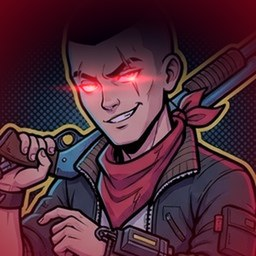
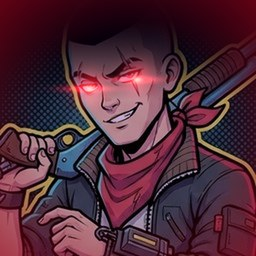
v0.20.1: BOSS red eyes re-aligned to the pupils, eye check tool
Claude-Session: https://claude.ai/code/session_01LmbtZinGW7YZgeBA32fd2Q

Changed region(s): [[0.4062, 0.25, 0.625, 0.3438], [0.3438, 0.3125, 0.4062, 0.3438], [0.2812, 0.3438, 0.3125, 0.375]]

diff --git a/index.html b/index.html
@@ -3,7 +3,7 @@
 <head>
 <meta charset="utf-8">
 <meta name="viewport" content="width=device-width,initial-scale=1,maximum-scale=1,user-scalable=no">
-<title>SPIN! SPIN! v0.20.0</title>
+<title>SPIN! SPIN! v0.20.1</title>
 <link rel="preconnect" href="https://fonts.googleapis.com"><link rel="preconnect" href="https://fonts.gstatic.com" crossorigin>
 <link href="https://fonts.googleapis.com/css2?family=Rajdhani:wght@500;700&display=swap" rel="stylesheet">
 <style>
@@ -676,10 +676,11 @@ h1{font-style:italic;text-shadow:-2px -2px 0 #05060a,2px -2px 0 #05060a,-2px 2px
  v0.18.1 track walls show their inner faces and grow/lean with the camera tilt; the road's default view is more tilted
  v0.19.0 real perspective (near big, far small) across the whole game: the world pass is drawn through a projecting canvas stand-in (PG), strength follows the tilt, on/off switch in settings
  v0.20.0 chapter 2 (10 levels): new props portal / ice / breakable wall (crack), BOSSes 失控彈窗・彈彈 (popups), 暗黑雙子・零與壹 (decoys + hack), 逆時怪盜・克羅諾 (time stop, 2 lives)
+ v0.20.1 BOSS red eyes re-aligned to the pupils (all six portraits re-made, live glow coordinates updated); tools/eye_check.py for checking
 */
 (() => {
 'use strict';
-const GAME_VERSION = 'v0.20.0';
+const GAME_VERSION = 'v0.20.1';
 document.getElementById('verFoot').textContent = `SPIN! SPIN! ${GAME_VERSION}`; document.title = `SPIN! SPIN! ${GAME_VERSION}`; // tab title always follows the version
 // hidden GM panel: tap the version text 7 times within 3 seconds
 (() => {
@@ -878,12 +879,12 @@ for (const id of ['rat', 'rex', 'octo', 'rider', 'tesla', 'cactus', 'erin', 'jac
 // They are added non-enumerable so the codex, gacha pools and random line-ups never see them. eyes = pupil centres on the 256px portrait (for the live glow).
 // sig = signature move in the BOSS arena: quake3 連環重砸, bounty 全場通緝, wall 盾牆＋連續衝鋒, popups 彈窗洗版, twin 分身＋駭入, timestop 時間停止
 function defBoss(id, base, o) { Object.defineProperty(CLASSES, id, { value: Object.assign({}, CLASSES[base], o, { bossOf: base }), enumerable: false }); PORTRAIT_SRC[id] = `art/portraits/${id}.jpg`; if (FACE[base]) FACE[id] = FACE[base]; }
-defBoss('boss_rex', 'rex', { name: '暴走鐵拳・雷克斯', sig: 'quake3', eyes: [[117.5, 111], [167, 113]], lore: '被不明訊號控制的雷克斯。液壓義手失去限制，連砸三下地板。' });
-defBoss('boss_jack', 'jack', { name: '黑化獵人・傑克', sig: 'bounty', eyes: [[91, 88], [132, 78.7]], lore: '被控制的傑克。把整個場子的人都當成懸賞目標。' });
+defBoss('boss_rex', 'rex', { name: '暴走鐵拳・雷克斯', sig: 'quake3', eyes: [[117.5, 110.5], [165.4, 111]], lore: '被不明訊號控制的雷克斯。液壓義手失去限制，連砸三下地板。' });
+defBoss('boss_jack', 'jack', { name: '黑化獵人・傑克', sig: 'bounty', eyes: [[89.6, 88.6], [137, 79.5]], lore: '被控制的傑克。把整個場子的人都當成懸賞目標。' });
 defBoss('boss_spam', 'spam', { name: '失控彈窗・彈彈', sig: 'popups', eyes: [[24, 184], [114, 184]], lore: '被控制的彈彈。彈窗不再可愛，會把人整個圍起來。' });
-defBoss('boss_twins', 'twins', { name: '暗黑雙子・零與壹', sig: 'twin', eyes: [[28, 113], [68, 108], [205, 120], [243, 118]], lore: '被控制的雙胞胎駭客。場上的兩個，只有一個是真的。' });
-defBoss('boss_chrono', 'chrono', { name: '逆時怪盜・克羅諾', sig: 'timestop', eyes: [[90, 140], [129, 141]], lore: '被控制的克羅諾。偷走的不只是時間，還有你的回合。' });
-defBoss('boss_erin', 'erin', { name: '壞掉的盾・艾琳', sig: 'wall', eyes: [[108.8, 96.5], [151, 97.5]], lore: '被控制的艾琳。盾還舉著，只是不再分敵我。' });
+defBoss('boss_twins', 'twins', { name: '暗黑雙子・零與壹', sig: 'twin', eyes: [[25, 117], [65, 111.6], [210, 125], [251, 122]], lore: '被控制的雙胞胎駭客。場上的兩個，只有一個是真的。' });
+defBoss('boss_chrono', 'chrono', { name: '逆時怪盜・克羅諾', sig: 'timestop', eyes: [[105.6, 136], [146, 142]], lore: '被控制的克羅諾。偷走的不只是時間，還有你的回合。' });
+defBoss('boss_erin', 'erin', { name: '壞掉的盾・艾琳', sig: 'wall', eyes: [[106.3, 97.4], [152, 97.9]], lore: '被控制的艾琳。盾還舉著，只是不再分敵我。' });
 // live red glow on a BOSS portrait: mx/my map portrait pixels to canvas, k = canvas px per portrait px
 function eyeGlow(g, c, mx, my, k) {
   const E = CLASSES[c] && CLASSES[c].eyes; if (!E) return;

diff --git a/tools/eye_check.py b/tools/eye_check.py
@@ -1,0 +1,16 @@
+# 檢查 BOSS 頭像的瞳孔座標：python3 tools/eye_check.py '{"rex":[[117.5,110.5],[165.4,111]]}' out.png ，每個眼睛放大 7 倍並畫紅色準星與 ±px 刻度，準星要落在瞳孔正中央才填進 defBoss 的 eyes
+import sys, json
+from PIL import Image, ImageDraw
+E=json.loads(sys.argv[1]); out=sys.argv[2]
+Z=7; R=16; tiles=[]
+for n,es in E.items():
+  im=Image.open(f'/home/claude/spin-spin/art/portraits/{n}.jpg').convert('RGB')
+  for i,(x,y) in enumerate(es):
+    c=im.crop((int(x)-R,int(y)-R,int(x)+R,int(y)+R)).resize((2*R*Z,2*R*Z),Image.LANCZOS); d=ImageDraw.Draw(c)
+    ox,oy=(x-int(x)+R)*Z,(y-int(y)+R)*Z
+    d.ellipse([ox-4,oy-4,ox+4,oy+4],outline=(255,0,0),width=2); d.line([(ox-18,oy),(ox-7,oy)],fill=(255,0,0),width=2); d.line([(ox+7,oy),(ox+18,oy)],fill=(255,0,0),width=2); d.line([(ox,oy-18),(ox,oy-7)],fill=(255,0,0),width=2); d.line([(ox,oy+7),(ox,oy+18)],fill=(255,0,0),width=2)
+    for k in range(-12,13,4): d.text((ox+k*Z-4,2),f'{k:+d}',fill=(0,255,255)); d.text((2,oy+k*Z-5),f'{k:+d}',fill=(255,0,255))
+    d.text((4,2*R*Z-12),f'{n}{i} ({x},{y})',fill=(255,255,0)); tiles.append(c)
+W=2*R*Z; cols=4; rows=(len(tiles)+cols-1)//cols; c=Image.new('RGB',(W*cols,W*rows))
+for i,t in enumerate(tiles): c.paste(t,((i%cols)*W,(i//cols)*W))
+c.save(out)

diff --git a/CHANGELOG.md b/CHANGELOG.md
@@ -4,6 +4,7 @@
 
 | 版本 | 內容 |
 |---|---|
+| v0.20.1 | 修正 BOSS 紅眼沒對準眼珠：六張 BOSS 頭像的瞳孔位置全部重新標定（第二章的零與壹、克羅諾原本偏了 4～15 像素，其他幾張微調），頭像重新加工，遊戲中閃爍的紅光也改用新座標；新增檢查工具 tools/eye_check.py（放大眼睛畫準星確認位置） |
 | v0.20.0 | 第二章「訊號汙染區」10 關上線（打完 1-10 解鎖，章節畫面多一個「第 2 章」分頁）：①三種新機關——冰面（淡藍色區域，在上面拖曳幾乎沒用、也不會減速）、傳送門（衝進 WARP 門從粉紅色 EXIT 門出來，保留速度與方向，可以跳過危險路段）、防火牆（有血條的灰色牆，撞得越快扣越多，撞破才過得去，每次撞牆回 3% 轉速）；②三個新 BOSS（被控制的原有角色，頭像紅眼加工）：2-5 失控彈窗・彈彈「彈窗洗版」——在玩家身邊彈出一圈廣告窗把人圍住並減速，撞破才出得來；2-9 暗黑雙子・零與壹「分身＋駭入」——場上有長得一模一樣的分身（打幾下就碎，階段 2 再出一隻），真身每 9 秒駭入，1.5 秒內沒拉開距離 EX 會被偷光；2-10 逆時怪盜・克羅諾「時間停止」（兩條血）——在玩家腳下畫時鐘圈，指針轉完前沒逃出去會被凍住 2.2 秒並遭衝撞；③關卡：2-1 冷卻液管道、2-2 防火牆、2-3 斷線區、2-4 急凍走廊、2-5 彈窗地獄（BOSS）、2-6 雙層防火牆、2-7 封包風暴、2-8 黑洞中繼站、2-9 雙生伺服器（BOSS）、2-10 逆轉時鐘塔（BOSS），無 BOSS 關都有闖關場；全三星獎勵 8000＋紫箱；難度接第一章：建議紅卡起步，2-9 紅卡 3 星、2-10 金卡或全紅 3 星；④關卡說明的特色標籤補上新機關；教學場地說明補上新機關 |
 | v0.19.0 | 全遊戲加入透視（近大遠小）：賽道、圓形對戰台、終點闖關場、BOSS 場都有遠近感，賽道會往遠方收窄；陀螺、機關、火花、文字、漫畫字、頭像都依遠近縮放，文字與頭像維持正面不變形；透視強度跟著視角傾斜走（俯視時沒有透視、越斜越強，預設中等、調到最斜時畫面頂端的東西約剩四成大小），所以原本的兩指上下滑／Shift＋滾輪／設定滑桿就是在調透視；手指點畫面選落點、拖曳方向都改用新的換算，點在哪裡就落在哪裡；賽道上的鏡頭重新對準，陀螺維持在畫面中下方；設定新增「透視效果」開關（預設開，手機太卡可關掉，關掉就回到舊的畫法） |
 | v0.18.1 | 賽道關的視角傾斜看得出來了：兩側牆改成畫出內側牆面（加上接縫、腳邊陰影、左青右粉的霓虹燈條），鏡頭越斜牆越高、牆頂越往外倒，俯視時幾乎只剩牆頂；賽道上的預設角度改得比較斜（終點闖關場與 BOSS 場維持原本的自動傾斜）；兩指捏合、兩指上下滑、滾輪與設定滑桿照舊可用；放大＋最斜時畫面上下不會再被裁掉 |
